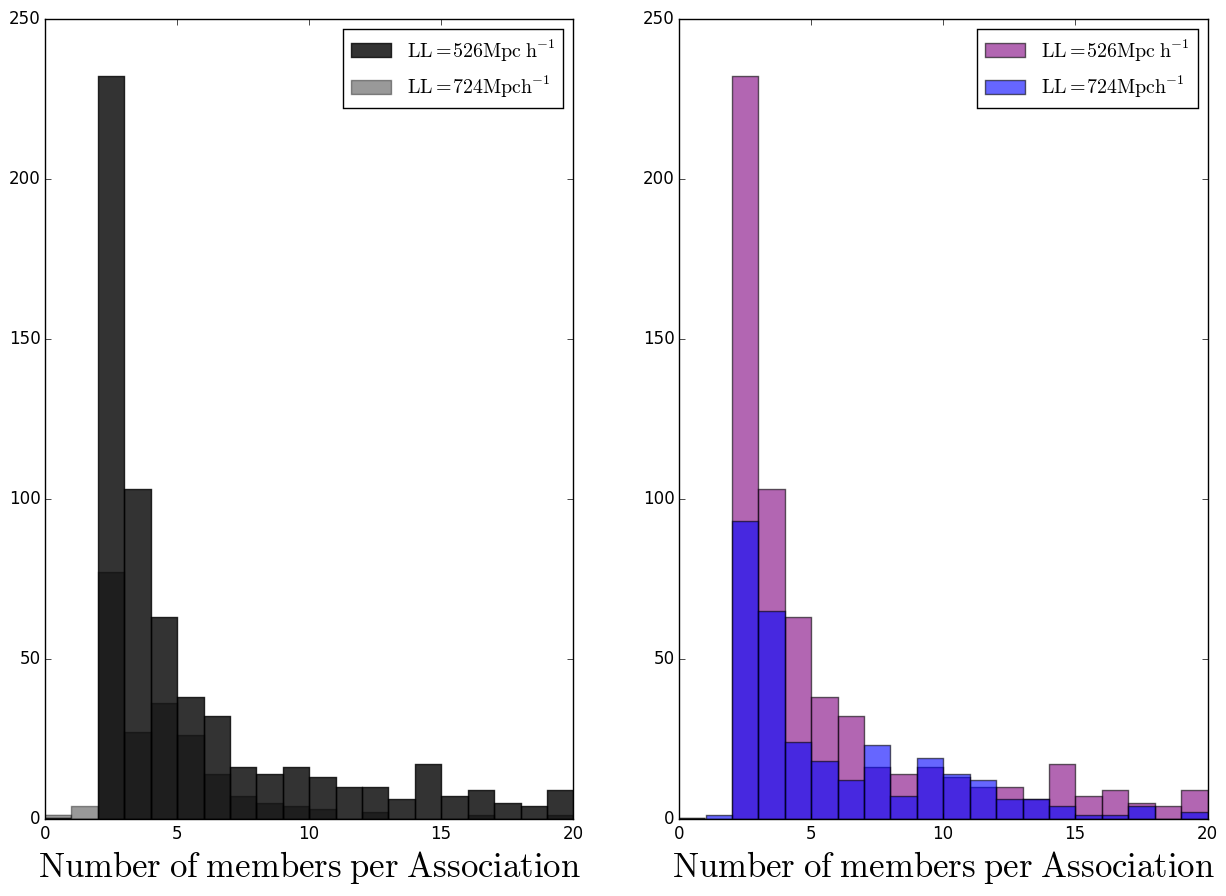
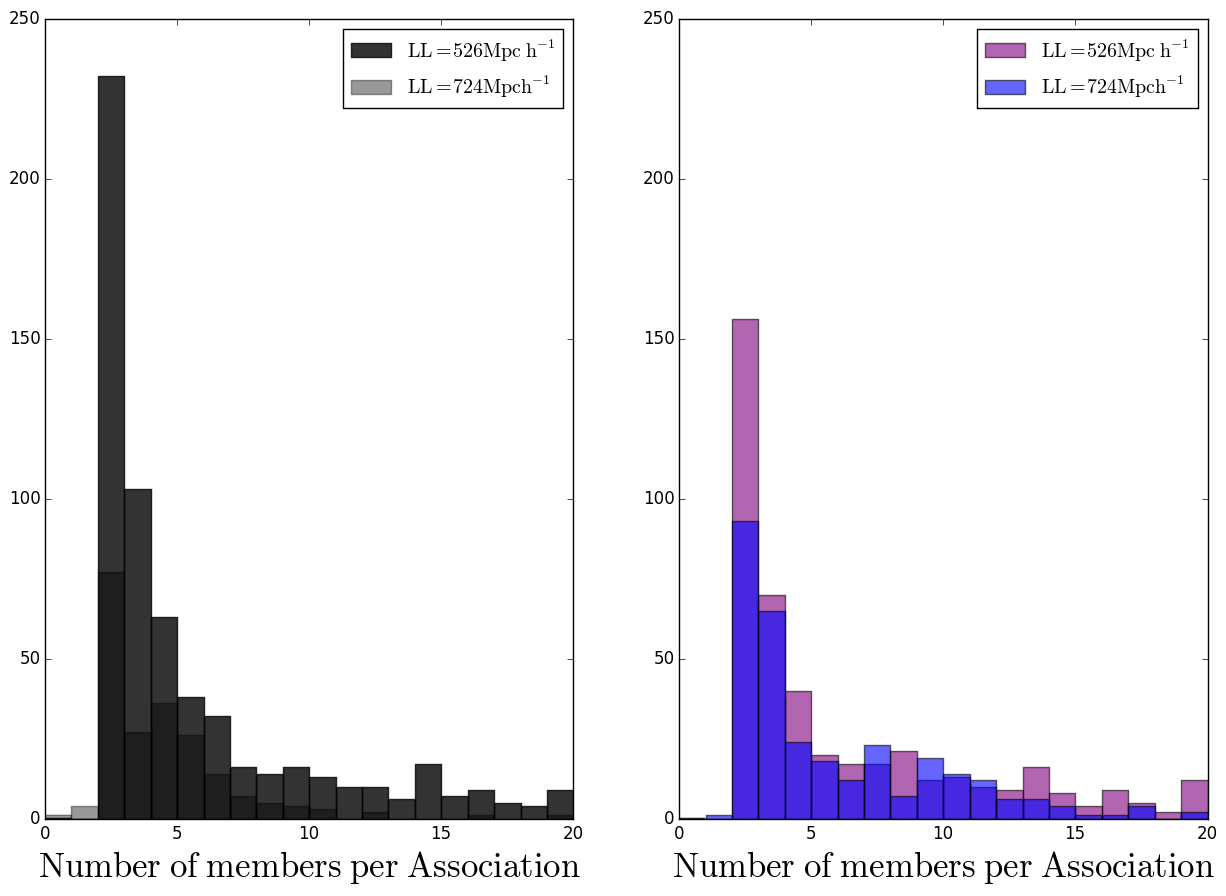
fixing why the numbers of observed associations is larger than the DM associationa

diff --git a/code/FOF/Associations_finder.py b/code/FOF/Associations_finder.py
@@ -8,6 +8,9 @@ N_asso_dm_min = []
 N_asso_dm_max = []
 N_asso_stars_min = []
 N_asso_stars_max = []
+sigma_V = []
+sigma_X = []
+
 
 NassDM_min = []
 NassDM_max = []
@@ -19,24 +22,28 @@ Vdisp_obs = [18, 36,  42, 11, 17, 35, 26, 37]#km/s
 Xdisp_obs = [350, 280,  320, 300, 260, 380, 310, 570] #Kpc check the h factor
 N_obs = [5, 6, 7, 4, 5, 3, 4, 4]
 
+f = open("Nass.txt", "w")
+
 for i in range (53):
 	print "Grupo =", i
 	snap_name = "Illustris_group_"+str(i)+".dat"
 	x, y, z, vx, vy, vz, Mag =  loading_snapshot("../../data/Illustris/" + snap_name)
-	#print Mag
-	x_stars, y_stars, z_stars, vx_stars, vy_stars, vz_stars = stars(x, y, z, vx, vy, vz, Mag)
-	#print "NDM = ", len(x), "Nstars = ", len(x_stars)
+	x_stars, y_stars, z_stars, vx_stars, vy_stars, vz_stars = stars(x, y, z, vx, vy, vz, Mag)# Return the stars in the previous loaded snapshot
+	#rint "NDM = ", len(x), "Nstars = ", len(x_stars)
 	N_DM = len(x)
 	N_stars = len(x_stars)
 	snap_fof_DM = "FOFDM" + snap_name
 	snap_fof_stars = "FOF_stars" + snap_name
+	# Running the FOF code
 	NDM_min, NDM_max = fof(x, y, z, vx, vy, vz, N_DM, snap_fof_DM)
 	Nstars_min, Nstars_max = fof(x_stars, y_stars, z_stars, vx_stars, vy_stars, vz_stars, N_stars, snap_fof_stars)
+	print "Dm min = ",  NDM_min, "DM max = ", NDM_max, "Stars min = ", Nstars_min, "Stars max = ", Nstars_max 
+	# Number of associations per groups
 	N_asso_dm_min.append(NDM_min)
         N_asso_dm_max.append(NDM_max)
 	N_asso_stars_min.append(Nstars_min)
 	N_asso_stars_max.append(Nstars_max)
-        
+        # Numbre of memebers per association
 	Nass, asso =  N_associations("A_min"+snap_fof_DM)
         NassDM_min += Nass
 	Nass_max, asso =  N_associations("A_max"+snap_fof_DM)
@@ -45,43 +52,61 @@ for i in range (53):
         NassStars_min += Nass_stars
         Nass_stars_max, asso =  N_associations("A_max"+snap_fof_stars)
         NassStars_max += Nass_stars_max
+	# Computing the dispersions
 	sigmax_min, sigmav_min, sigmax_max, sigmav_max = dispersiones(snap_fof_DM)
         sigmax_min_s, sigmav_min_s, sigmax_max_s, sigmav_max_s = dispersiones(snap_fof_stars)
-
+	f.write(("%f \t %f \t %f \t %f \n")%(len(Nass), len(Nass_max), len(Nass_stars), len(Nass_stars_max)))
         #rint len(sigmax_min), len(Nass)	
+	#######################################################
+        #                                                     #
+        #                   Making Plots                      #
+        #                                                     #
+        #######################################################
 	plt.figure(figsize=(15, 10))
         plt.subplot(2, 2, 1)
-	plt.scatter(sigmax_min, sigmav_min, c='k', alpha=0.5, s=180)
-        plt.scatter(sigmax_max, sigmav_max, c='k', alpha=1, s=180)
+	plt.title(str(len(Nass)) + "  " + str(len(Nass_max)))
+	plt.scatter(sigmax_min, sigmav_min, c='r', marker = "H", alpha=1, s=180)
+        plt.scatter(sigmax_max, sigmav_max, c='b', marker = "8", alpha=1, s=180)
 	plt.scatter(Xdisp_obs, Vdisp_obs, c='y', marker="*", s=180)
+        plt.ylabel(r"$\sigma_v$", fontsize=25)
 	plt.subplot(2, 2, 3)
-	plt.scatter(Nass, sigmax_min, c='k', alpha=0.5, s=180)
-        plt.scatter(Nass_max, sigmax_max, c='k', alpha=1, s=180)
-        plt.scatter(N_obs, Xdisp_obs,c='y', marker="*", s=180)
-        plt.subplot(2, 2, 4)
-        plt.scatter(Nass, sigmav_min, c='k', alpha=0.5, s=180)
-        plt.scatter(Nass_max, sigmav_max, c='k', alpha=1, s=180)
-        plt.scatter(N_obs, Vdisp_obs, c='y', marker="*", s=180)
-        plt.show()
+	plt.scatter(sigmax_min, Nass,  c='r', alpha=1, marker = "H", s=180)
+        plt.scatter(sigmax_max, Nass_max, c='b', marker = "8", alpha=1, s=180)
+        plt.scatter(Xdisp_obs, N_obs, c='y', marker="*", s=180)
+        plt.ylabel(r"$Number\ of\ Members$", fontsize=25)
+        plt.xlabel(r"$\sigma_x$", fontsize=25)
+	plt.subplot(2, 2, 4)
+        plt.scatter(sigmav_min, Nass, c='r', alpha=1,  marker = "H", s=180)
+        plt.scatter(sigmav_max, Nass_max, c='b', marker = "8", alpha=1, s=180)
+        plt.scatter(Vdisp_obs, N_obs, c='y', marker="*", s=180)
+        plt.xlabel(r"$\sigma_v$", fontsize=25)
+        #plt.show()
+	plt.savefig("figures/Association" + str(i) + ".png")
         plt.close()
 
 	#print len(sigmax_min), len(Nass)
         plt.figure(figsize=(15, 10))
         plt.subplot(2, 2, 1)
-        plt.scatter(sigmax_min_s, sigmav_min_s, c='r', alpha=0.5, s=180)
-        plt.scatter(sigmax_max_s, sigmav_max_s, c='b', alpha=1, s=180)
+	plt.title(str(len(Nass_stars)) + "  "+ str(len(Nass_stars_max)))
+        plt.scatter(sigmax_min_s, sigmav_min_s, c='r', marker = "H", alpha=1, s=180)
+        plt.scatter(sigmax_max_s, sigmav_max_s, c='b', marker = "8", alpha=1, s=180)
         plt.scatter(Xdisp_obs, Vdisp_obs, c='y', marker="*", s=180)
+	plt.ylabel(r"$\sigma_v$", fontsize=25)
         plt.subplot(2, 2, 3)
-        plt.scatter(Nass_stars, sigmax_min_s, c='k', alpha=0.5, s=180)
-        plt.scatter(Nass_stars_max, sigmax_max_s, c='k', alpha=1, s=180)
-        plt.scatter(N_obs, Xdisp_obs,c='y', marker="*", s=180)
+        plt.scatter(sigmax_min_s, Nass_stars, c='r', marker = "H", alpha=1, s=180)
+        plt.scatter(sigmax_max_s, Nass_stars_max, c='b', marker = "8", alpha=1, s=180)
+        plt.scatter(Xdisp_obs, N_obs,  c='y', marker="*", s=180)
+	plt.ylabel(r"$Number\ of\ Members$", fontsize=25)
+	plt.xlabel(r"$\sigma_x$", fontsize=25)
         plt.subplot(2, 2, 4)
-        plt.scatter(Nass_stars, sigmav_min_s, c='k', alpha=0.5, s=180)
-        plt.scatter(Nass_stars_max, sigmav_max_s, c='k', alpha=1, s=180)
-        plt.scatter(N_obs, Vdisp_obs, c='y', marker="*", s=180)
-        plt.show()
+        plt.scatter(sigmav_min_s, Nass_stars,  c='r',  marker = "H", alpha=1, s=180)
+        plt.scatter(sigmav_max_s, Nass_stars_max ,marker = "8", c='b', alpha=1, s=180)
+        plt.scatter(Vdisp_obs, N_obs,  c='y', marker="*", s=180)
+	plt.xlabel(r"$\sigma_v$", fontsize=25)
+        #plt.show()
+        plt.savefig("figures/ObsAssociation" + str(i) + ".png")
         plt.close()
-
+f.close()
 plt.figure(figsize=(15, 10))
 plt.subplot(1, 2, 1)
 plt.hist(N_asso_dm_min, color='k', alpha=0.8, label=r"$\mathrm{LL = 526Mpc\ h^{-1}}$", bins=range(0, 20 + 1, 1))
@@ -89,7 +114,7 @@ plt.hist(N_asso_dm_max, color='k', alpha=0.4, label=r"$\mathrm{LL = 724Mpc\ h^{-
 plt.title(r"$\mathrm{Dark\ Associations}$", fontsize=25)
 plt.xlabel(r"$\mathrm{Number\ of\ Associations\ per\ Group}$", fontsize=25)
 plt.legend()
-#plt.savefig("Nassociations_DM_min.png", bbox_inches="tight")
+#lt.savefig("Nassociations_DM_min.png", bbox_inches="tight")
 
 
 plt.subplot(1, 2, 2)

diff --git a/code/FOF/functions.py b/code/FOF/functions.py
@@ -44,41 +44,64 @@ def fof(x, y, z, vx, vy, vz, N, snap_fof):
         LL_max = 724 # Max Linking Length in Kpc
         os.system(('./../../../HackFOF/src/fof -e %f -m 2  -px 75000 -py 75000 -pz 75000 < ' +  snap_fof)%(LL_min*h)) 
         fof_groups = np.loadtxt('fof.grp', skiprows=1)
-        N_as_min = len(list(set(fof_groups)))
+	groups1 = list(fof_groups)
+	N_as_min = len(list(set(fof_groups)))
+	new_fof_min = 0
+	for k in range(N_as_min):
+		XX = groups1.count(k)
+		if XX < 30:
+			new_fof_min += 1	
         ## Esto sobrescribe los datos de las asociaciones--------------------------
-        f = open("A_min" + snap_fof, "w") 
+        f = open("data/A_min" + snap_fof, "w") 
 	for j in range(len(x)):
 		f.write(("%f \t %f \t %f \t %f \t %f \t %f \t %f \n" )%(x[j], y[j], z[j], vx[j], vy[j], vz[j], fof_groups[j]))        
         f.close()
-        f = open("A_max" + snap_fof, "w")
+        f = open("data/A_max" + snap_fof, "w")
         #  [-px <xPeriod>] [-py <yPeriod>] [-pz <zPeriod>] FOF periodic conditions       
         os.system(('./../../../HackFOF/src/fof -e %f -m 2  -px 75000 -py 75000 -pz 75000 < '+ snap_fof)%(LL_max*h)) 
 	fof_groups = np.loadtxt('fof.grp', skiprows=1)
+	groups2 = list(fof_groups)
         N_as_max = len(list(set(fof_groups)))
+	new_fof_max = 0
+        for k in range(N_as_min):
+      		XX = groups2.count(k)
+                if XX < 30:
+                        new_fof_max += 1
         for j in range(len(x)):
         	f.write(("%f \t %f \t %f \t %f \t %f \t %f \t %f \n" )%(x[j], y[j], z[j], vx[j], vy[j], vz[j], fof_groups[j]))
         f.close()
-	return N_as_min, N_as_max
+	return new_fof_min, new_fof_max
 
+
+###########################################################
+#                                                         #
+#  N_associations find the number of members per group    #
+#                                                         #
+###########################################################
 
 def N_associations(name):
 	N_count = []
         Asso = []
-	data = np.loadtxt(name)
+	data = np.loadtxt("data/" + name)
         Nasso = data[:,6]
         L = list(Nasso)
         N = len(list(set(Nasso)))
         for i in range(N):
 		x = L.count(i)
-                if x<100:
+                if x<25:
 			N_count.append(x)
                 	Asso.append(i)
 	return N_count, Asso
 
+##########################################################
+#                                                        #
+# Disperiosnes: Finds the dispersions of  every group    #
+#                                                        #
+##########################################################
 
 def dispersiones(snap_fof):
-        data_min = np.loadtxt("A_min" + snap_fof)
-        data_max = np.loadtxt("A_max" + snap_fof)
+        data_min = np.loadtxt("data/A_min" + snap_fof)
+        data_max = np.loadtxt("data/A_max" + snap_fof)
         x_min = data_min[:,0]
         y_min = data_min[:,1]
         z_min = data_min[:,2]
@@ -100,12 +123,12 @@ def dispersiones(snap_fof):
         sigmav_min = []
         sigmax_max = []# The +1 is beacuse the snap17 max have all the memebers in 1 a in 2 so it doesnt have 0 and sigmav_max brokes
         sigmav_max = []
-        print "N ass = ", N_as_min
+        #rint "N ass = ", N_as_min
 	for i in range(int(min(list(set(N_min)))),int(max(list(set(N_min)))+1)):
         	index = np.where(N_min==i)
                 index = index[0]
-		print "index=", len(index)
-                if (len(index)<100):
+		#print "index=", len(index)
+                if (len(index)<25):
 			x_LLmin = x_min[index]
                 	y_LLmin = y_min[index]
                         z_LLmin = z_min[index]
@@ -129,13 +152,12 @@ def dispersiones(snap_fof):
     			X = np.sqrt(x_LLmin**2 + y_LLmin**2 + z_LLmin**2)
     			V = np.sqrt(vx_LLmin**2 + vy_LLmin**2 + vz_LLmin**2)
     			sigmav_min.append(np.std(V))
-    			sigmax_min.append(np.std(X))	
-			print "hola"       
+    			sigmax_min.append(np.std(X))	       
 	for i in range(int(min(list(set(N_max)))),int(max(list(set(N_max)))+1)):
-		print "Nass max = ", N_as_max
+		#print "Nass max = ", N_as_max
                 index = np.where(N_max==i)
                 index = index[0]
-        	if (len(index)<100):
+        	if (len(index)<25):
 	        	x_LLmax = x_max[index]
                 	y_LLmax = y_max[index]
                 	z_LLmax = z_max[index]
